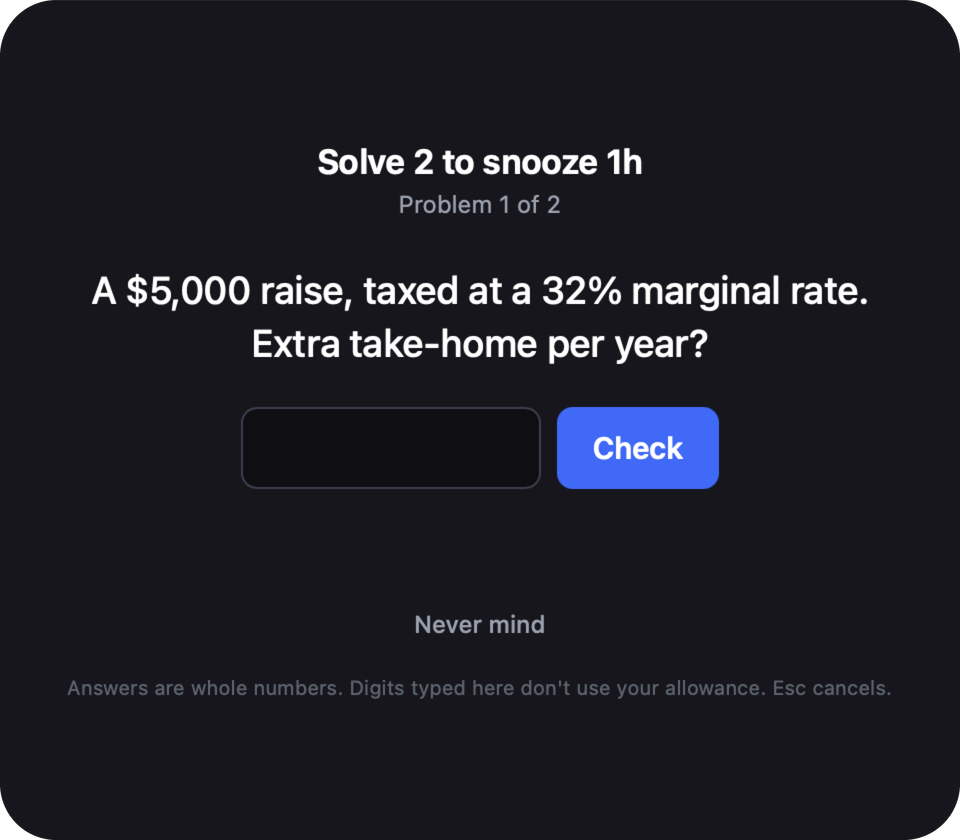
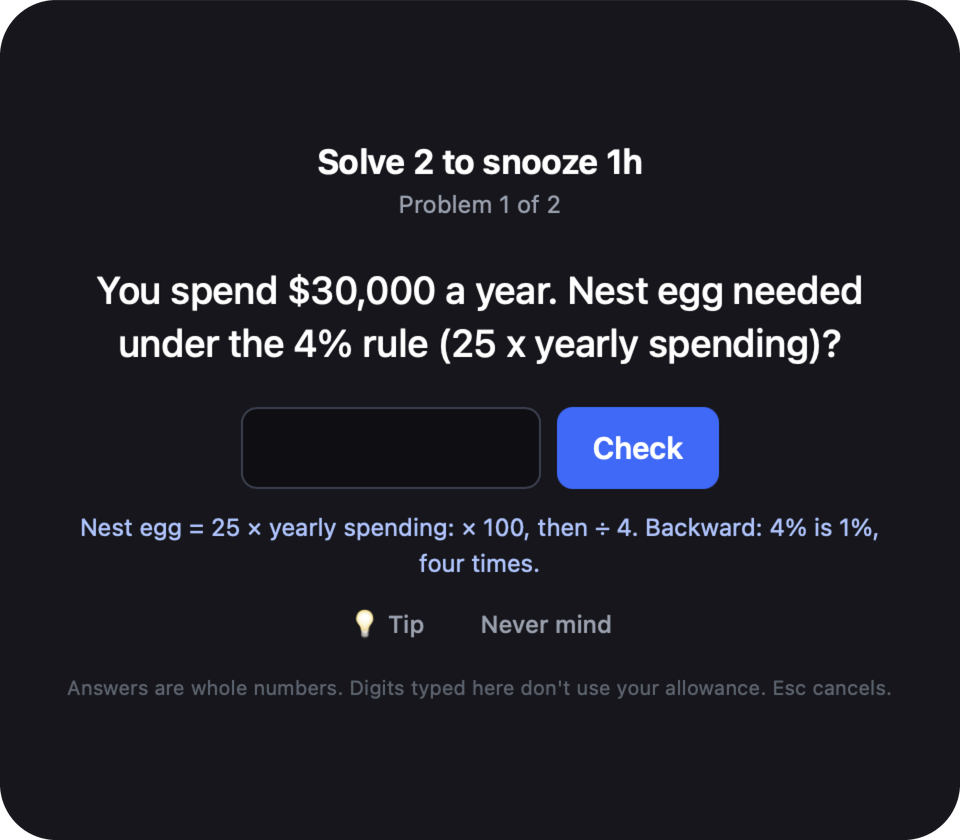
Add a Tip button with a mental-math shortcut for each kind of problem
Every template carries a short, general shortcut (for example "10% = move
the decimal one place left. 5% = half of that."). The card is sent it with
the problem and shows it when Tip is pressed. A tip never uses the
problem's numbers; the exhaustive test checks that no tip states an answer.

Suite: 73 passed.

Changed region(s): [[0.0938, 0.3095, 0.9062, 0.4333], [0.0625, 0.619, 0.9062, 0.681], [0.375, 0.7119, 0.625, 0.7738]]

diff --git a/README.md b/README.md
@@ -196,10 +196,12 @@ Open the gear in the card's corner and set **Math to snooze** to 1, 2, 3, or 5 (
 
 <p align="center">
   <img src="docs/screenshots/math-setting.png" width="48%" alt="The card with the gear menu open: Math to snooze, set to 2">
-  <img src="docs/screenshots/snooze-gate.png" width="48%" alt="The snooze gate: Solve 2 to snooze 1h, problem 1 of 2, a question about a raise after tax, an answer box, and a Check button">
+  <img src="docs/screenshots/snooze-gate.png" width="48%" alt="The snooze gate: Solve 2 to snooze 1h, problem 1 of 2, a question about the 4% rule, an answer box, a Check button, and the Tip shortcut for that kind of problem shown underneath">
 </p>
 
 **The problems** are everyday money math you can do in your head, drawn at random from 23 kinds: tips, discounts, and sales tax; percent change; the rule of 72; a month of credit card interest; what a subscription or a daily habit costs per year; hourly rate to salary and back; savings rate; splitting a bill; the 4% rule; an employer match; two years of compounding; profit margin; months of runway; payback time; fund fees; the gain needed to recover from a loss; return after inflation; a contractor's tax set-aside; a raise after tax; a down payment. Every answer is a whole number. `$1,200`, `1200`, and `15%` are all read as numbers. The number has to be exact. A wrong answer gets a one-line hint about the method, never the answer, and you can try again as often as you like.
+
+**Tip** shows the mental-math shortcut for the kind of problem on screen, such as "10% = move the decimal one place left. 5% = half of that." or "Years to double ≈ 72 ÷ rate." It is there to be used: the point of the gate is a moment of thought, and getting faster at this arithmetic is a fine way to spend it. A tip is general and never uses the problem's numbers.
 
 **What is gated:** the card's Snooze button and its presets, a typed snooze length, the card's Disable button, and starting a snooze through the `dictationNudgeSnooze` URL or console helper.
 
@@ -214,12 +216,12 @@ Open the gear in the card's corner and set **Math to snooze** to 1, 2, 3, or 5 (
 ```bash
 brew install lua@5.4
 "$(brew --prefix lua@5.4)/bin/lua" tests/run.lua
-# 72 tests, 72 passed, 0 failed
+# 73 tests, 73 passed, 0 failed
 ```
 
 The suite needs only Lua 5.4, the version Hammerspoon embeds, and I have not run it on any other. Homebrew's `lua@5.4` is not put on your `PATH`, hence the full path above; if your own `lua` is already 5.4, `lua tests/run.lua` is enough. It loads the real module against `tests/hs_stub.lua`, a stand-in for the Hammerspoon API with a fake clock, and drives the real event-tap callback. It never creates or posts a key event.
 
-What it covers: the allowance arithmetic, when each tier fires, the cooldown, the lockdown swallowing keys and ending on Esc or on time (including when drawing the overlay fails or its timer never fires), the key filters, the reset chord, snooze, disable, saved preferences, config validation, and malformed messages from the card. For the snooze gate: that nothing is snoozed or disabled until every problem is answered, that an answer counts only for the problem it was sent for, what is and is not gated, and that answer keys spend nothing. The typed snooze lengths are checked against a table of accepted and refused inputs. The money-math bank is checked two ways: one hand-worked case per kind of problem, and a walk over every problem the bank can produce (several hundred) that requires a positive whole-number answer and a hint that does not state it.
+What it covers: the allowance arithmetic, when each tier fires, the cooldown, the lockdown swallowing keys and ending on Esc or on time (including when drawing the overlay fails or its timer never fires), the key filters, the reset chord, snooze, disable, saved preferences, config validation, and malformed messages from the card. For the snooze gate: that nothing is snoozed or disabled until every problem is answered, that an answer counts only for the problem it was sent for, what is and is not gated, and that answer keys spend nothing. The typed snooze lengths are checked against a table of accepted and refused inputs. The money-math bank is checked two ways: one hand-worked case per kind of problem, and a walk over every problem the bank can produce (several hundred) that requires a positive whole-number answer, and a hint and a tip that do not state it.
 
 It also checks the claims in [What it reads from your keyboard](#what-it-reads-from-your-keyboard):
 
@@ -231,7 +233,7 @@ It also checks the claims in [What it reads from your keyboard](#what-it-reads-f
 
 The last check is a text scan. It guards against the obvious regressions; it is not a proof, and it is no substitute for reading the file.
 
-What it does not cover: anything that needs the real Hammerspoon. The card's HTML and JavaScript (including the limit field's duration parser, the gear, how a problem is displayed, and that the controls behind a problem cannot be reached while it is up), the menubar item's appearance, the overlay on real displays, and the permission prompts are checked by hand.
+What it does not cover: anything that needs the real Hammerspoon. The card's HTML and JavaScript (including the limit field's duration parser, the gear, how a problem is displayed, the Tip button, and that the controls behind a problem cannot be reached while it is up), the menubar item's appearance, the overlay on real displays, and the permission prompts are checked by hand.
 
 ## Limitations
 
